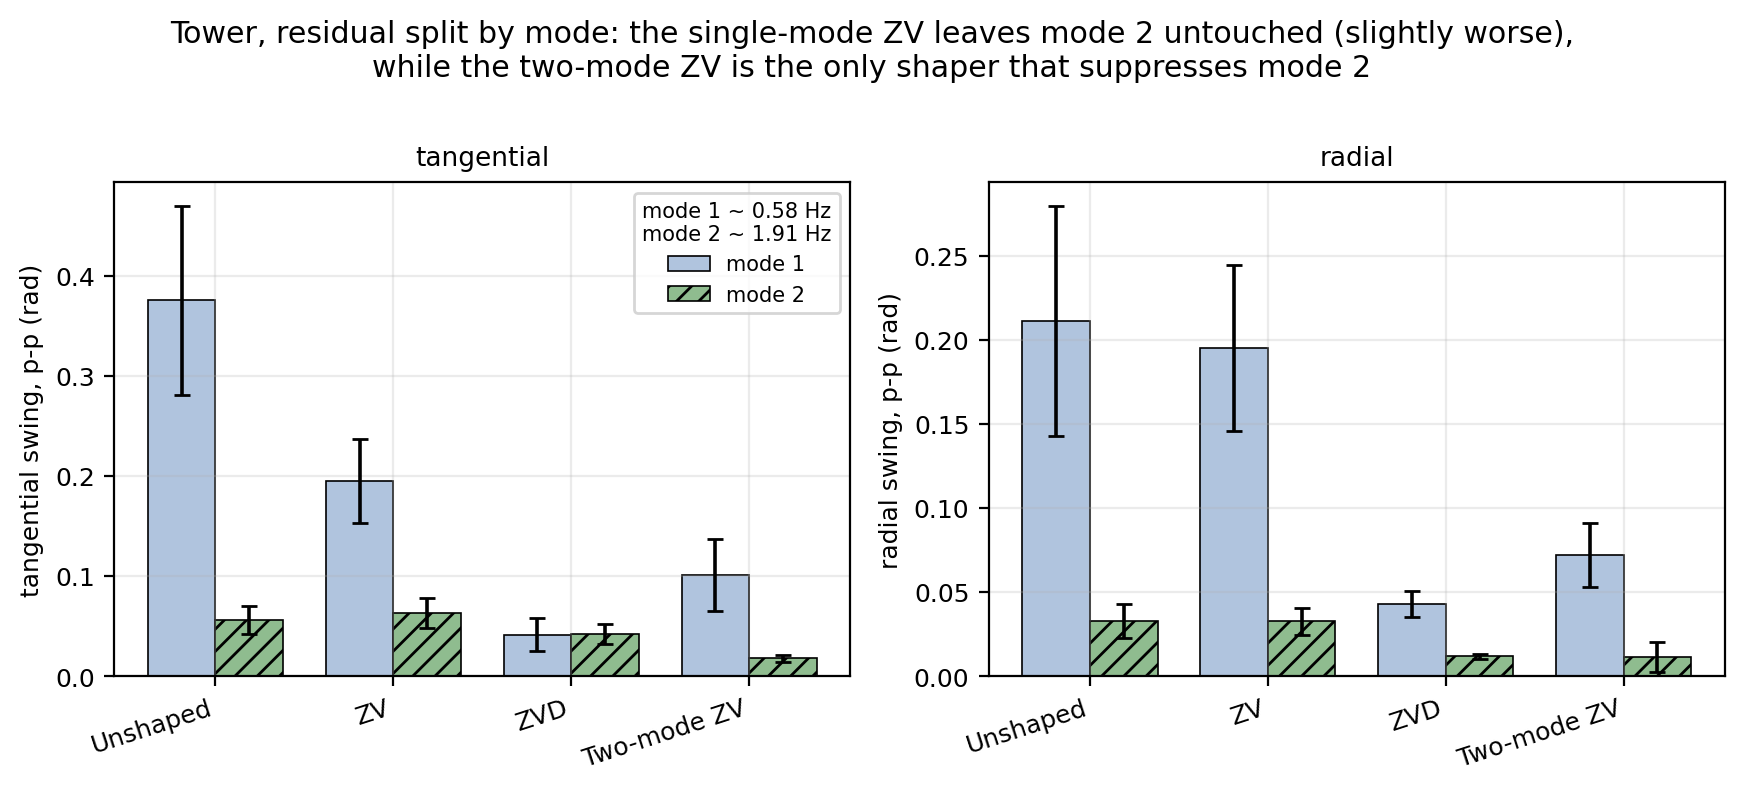
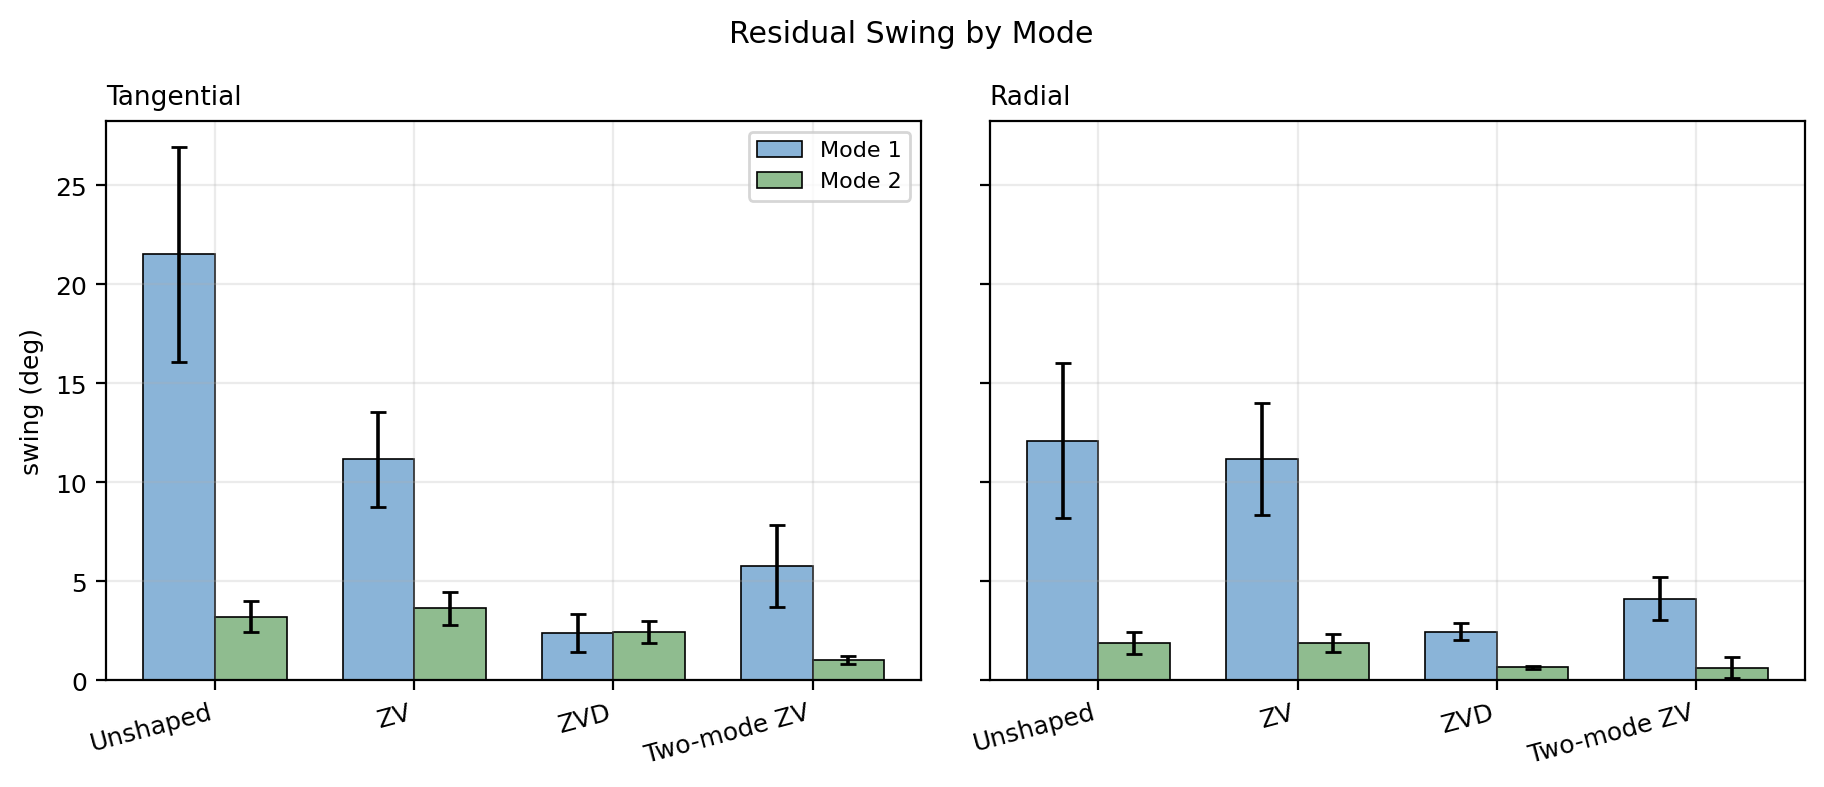
Plot fig10 mode split in degrees
Matches the report caption and the other tower figures, which are all in
degrees. Adds an explicit "Tangential"/"Radial" panel title so the caption
can refer to the left and right plots unambiguously.

Changed region(s): [[0.0, 0.0305, 0.9908, 0.9759], [0.5264, 0.305, 0.5573, 0.3659]]

diff --git a/Fall 2026/Adv Control/Lab 2/analysis/s5_figures.py b/Fall 2026/Adv Control/Lab 2/analysis/s5_figures.py
@@ -375,29 +375,30 @@ def fig09(tt):
 
 
 def fig10(tt):
-    shapers = ["Unshaped", "ZV", "ZVD", "Two-mode ZV"]
-    fig, axes = plt.subplots(1, 2, figsize=(8.8, 3.9))
+    """Residual swing split by pendulum mode, tangential and radial.
+
+    Plotted in degrees to match the report's caption and the other tower
+    figures.  Amplitudes are peak-to-peak, averaged over the three trolley
+    radii, with error bars showing the spread across those three trials.
+    """
+    shapers = TOWER_ORDER
+    fig, axes = plt.subplots(1, 2, figsize=(9.2, 4.0), sharey=True)
     x = np.arange(len(shapers))
-    wd = 0.38
-    for ax, tag, name in ((axes[0], "tan", "tangential"), (axes[1], "rad", "radial")):
-        for k, (mode, hatch) in enumerate(((1, ""), (2, "///"))):
-            vals = [tt[tt.shaper == s][f"{tag}_m{mode}_amp_pp_rad"].mean() for s in shapers]
-            errs = [tt[tt.shaper == s][f"{tag}_m{mode}_amp_pp_rad"].std() for s in shapers]
+    wd = 0.36
+    for ax, tag, name in ((axes[0], "tan", "Tangential"), (axes[1], "rad", "Radial")):
+        for k, mode in enumerate((1, 2)):
+            col = f"{tag}_m{mode}_amp_pp_deg"
+            vals = [tt[tt.shaper == s][col].mean() for s in shapers]
+            errs = [tt[tt.shaper == s][col].std() for s in shapers]
             ax.bar(x + (k - 0.5) * wd, vals, wd, yerr=errs, capsize=3,
-                   hatch=hatch, edgecolor="k", linewidth=0.6,
-                   color=["#b0c4de", "#8fbc8f"][k],
-                   label=f"mode {mode}")
+                   color=["#8ab4d8", "#8fbc8f"][k], edgecolor="k",
+                   linewidth=0.6, label=f"Mode {mode}")
         ax.set_xticks(x)
-        ax.set_xticklabels(shapers, rotation=18, ha="right")
-        ax.set_ylabel(f"{name} swing, p-p (rad)")
-        ax.set_title(f"{name}")
-    f1 = tt.f1_theory_hz.mean()
-    f2 = tt.f2_theory_hz.mean()
-    axes[0].legend(title=f"mode 1 ~ {f1:.2f} Hz\nmode 2 ~ {f2:.2f} Hz", fontsize=7.5,
-                   title_fontsize=7.5)
-    fig.suptitle("Tower, residual split by mode: the single-mode ZV leaves mode 2 untouched "
-                 "(slightly worse),\nwhile the two-mode ZV is the only shaper that suppresses "
-                 "mode 2", y=1.0)
+        ax.set_xticklabels(shapers, rotation=15, ha="right")
+        ax.set_title(name, loc="left")
+    axes[0].set_ylabel("swing (deg)")
+    axes[0].legend()
+    fig.suptitle("Residual Swing by Mode", y=0.97)
     fig.tight_layout()
     return save(fig, "fig10_tower_mode_split.png")
 
